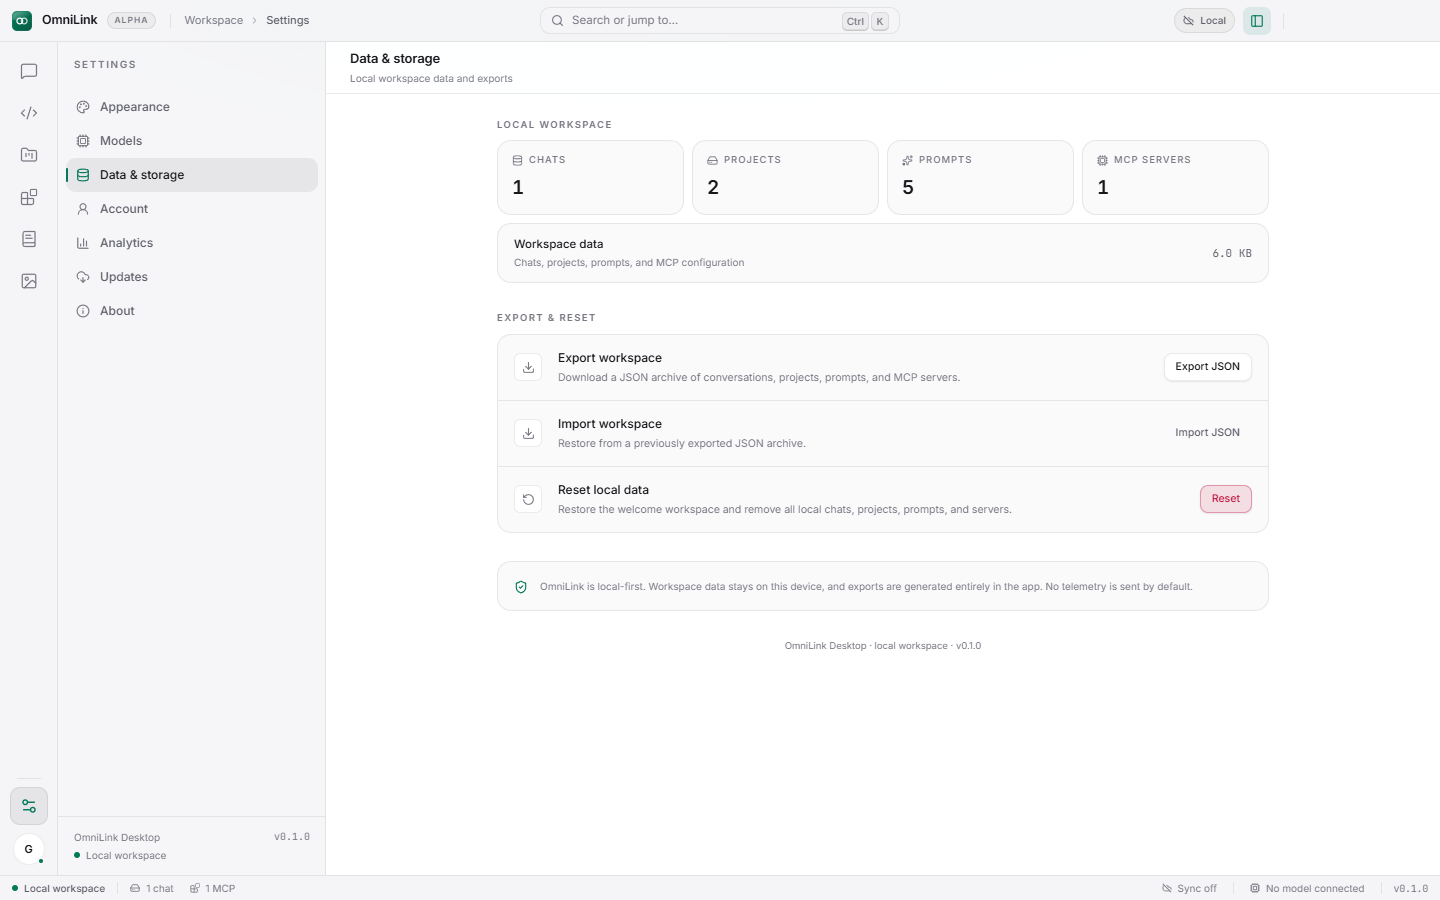
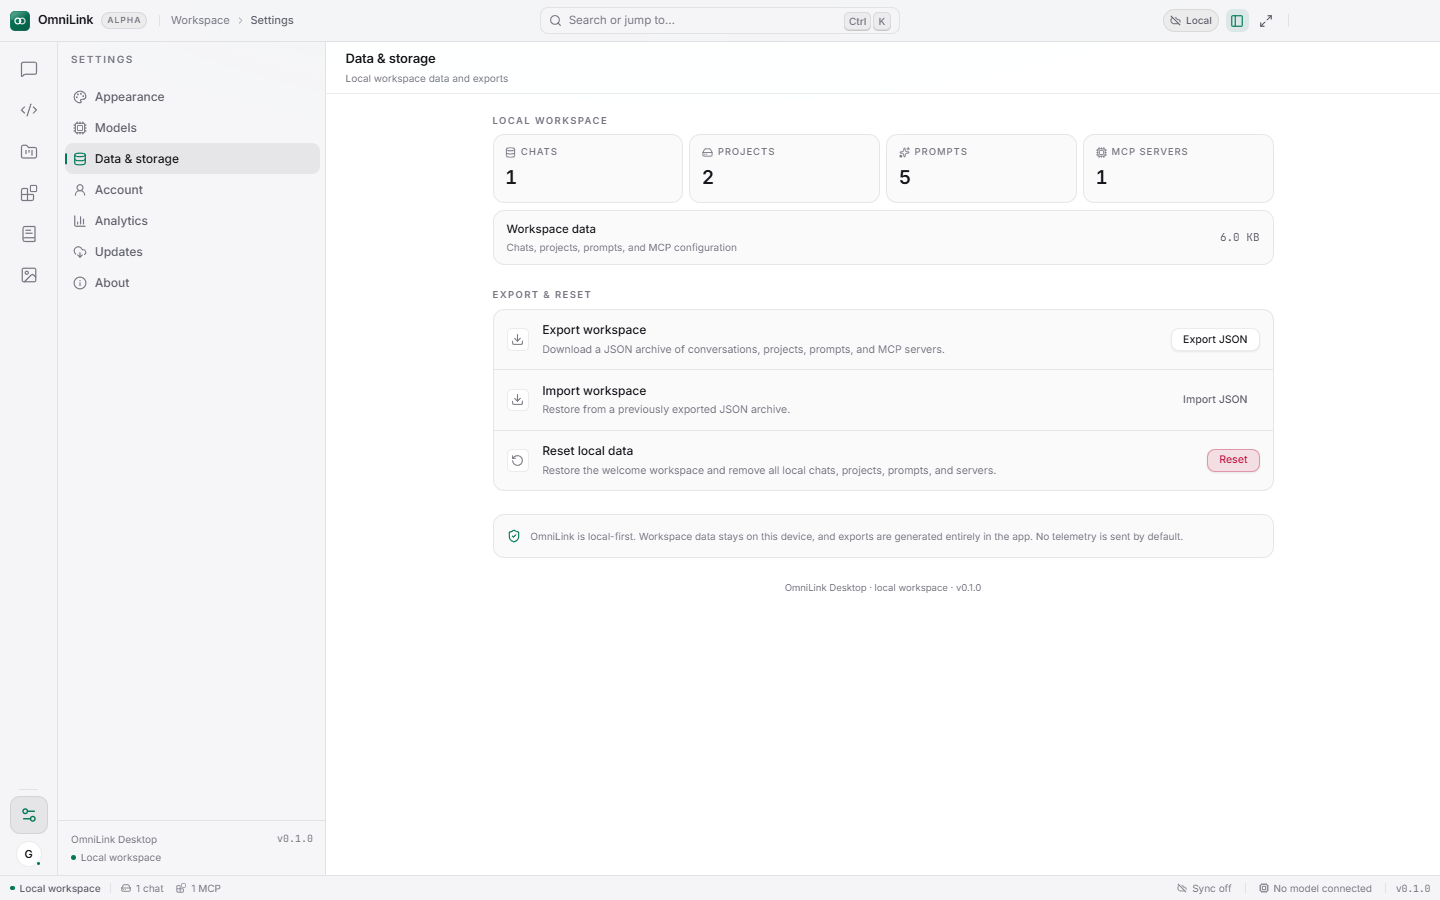
feat(desktop): UX & polish (minimap, breadcrumbs, focus mode, font size, custom CSS)

diff --git a/omnilink-desktop/src/store/app.ts b/omnilink-desktop/src/store/app.ts
@@ -58,7 +58,10 @@ interface AppState {
   theme: ThemeMode;
   accent: Accent;
   reduceMotion: boolean;
+  fontSize: number;
+  customCss: string;
   contextCollapsed: boolean;
+  focusMode: boolean;
   paletteOpen: boolean;
   modal: ModalState;
   activeConversationId: string | null;
@@ -93,7 +96,10 @@ interface AppState {
   setTheme: (theme: ThemeMode) => void;
   setAccent: (accent: Accent) => void;
   setReduceMotion: (reduce: boolean) => void;
+  setFontSize: (size: number) => void;
+  setCustomCss: (css: string) => void;
   toggleContext: () => void;
+  toggleFocusMode: () => void;
   setPaletteOpen: (open: boolean) => void;
   openModal: (modal: ModalState) => void;
   closeModal: () => void;
@@ -187,7 +193,10 @@ export const useApp = create<AppState>()(
       theme: "dark",
       accent: "violet",
       reduceMotion: false,
+      fontSize: 13,
+      customCss: "",
       contextCollapsed: false,
+      focusMode: false,
       paletteOpen: false,
       modal: null,
       activeConversationId: welcomeConversation.id,
@@ -230,8 +239,12 @@ export const useApp = create<AppState>()(
       setTheme: (theme) => set({ theme }),
       setAccent: (accent) => set({ accent }),
       setReduceMotion: (reduceMotion) => set({ reduceMotion }),
+      setFontSize: (fontSize: number) => set({ fontSize }),
+      setCustomCss: (customCss: string) => set({ customCss }),
       toggleContext: () =>
         set((state) => ({ contextCollapsed: !state.contextCollapsed })),
+      toggleFocusMode: () =>
+        set((state) => ({ focusMode: !state.focusMode })),
       setPaletteOpen: (paletteOpen) => set({ paletteOpen }),
       openModal: (modal) => set({ modal }),
       closeModal: () => set({ modal: null }),
@@ -676,7 +689,10 @@ export const useApp = create<AppState>()(
         theme: state.theme,
         accent: state.accent,
         reduceMotion: state.reduceMotion,
+        fontSize: state.fontSize,
+        customCss: state.customCss,
         contextCollapsed: state.contextCollapsed,
+        focusMode: state.focusMode,
         activeConversationId: state.activeConversationId,
         activeProjectId: state.activeProjectId,
         workspaces: state.workspaces,

diff --git a/omnilink-desktop/src/views/SettingsView.tsx b/omnilink-desktop/src/views/SettingsView.tsx
@@ -216,6 +216,10 @@ function AppearanceSettings() {
   const setAccent = useApp((state) => state.setAccent);
   const reduceMotion = useApp((state) => state.reduceMotion);
   const setReduceMotion = useApp((state) => state.setReduceMotion);
+  const fontSize = useApp((state) => state.fontSize);
+  const setFontSize = useApp((state) => state.setFontSize);
+  const customCss = useApp((state) => state.customCss);
+  const setCustomCss = useApp((state) => state.setCustomCss);
   const contextCollapsed = useApp((state) => state.contextCollapsed);
   const toggleContext = useApp((state) => state.toggleContext);
 
@@ -319,6 +323,38 @@ function AppearanceSettings() {
       </section>
 
       <section>
+        <GroupLabel>Typography</GroupLabel>
+        <Group>
+          <Row
+            title="Font size"
+            description="Base text size for the interface."
+          >
+            <input
+              type="range"
+              min={11}
+              max={16}
+              value={fontSize}
+              onChange={(event) => setFontSize(Number(event.target.value))}
+              className="w-32"
+            />
+            <span className="ml-2 font-mono text-[10px] text-subtle">
+              {fontSize}px
+            </span>
+          </Row>
+          <Row
+            title="Custom CSS"
+            description="Inject your own styles."
+          >
+            <textarea
+              value={customCss}
+              onChange={(event) => setCustomCss(event.target.value)}
+              placeholder="/* custom styles */"
+              className="field min-h-[80px] font-mono text-[10.5px]"
+            />
+          </Row>
+        </Group>
+      </section>
+     <section>
         <GroupLabel>Preview</GroupLabel>
         <div className="flex flex-wrap items-center gap-2 rounded-xl border border-line bg-[var(--bg-surface)] p-4">
           <button type="button" className="btn btn-primary">

diff --git a/omnilink-desktop/src/App.tsx b/omnilink-desktop/src/App.tsx
@@ -33,7 +33,10 @@ export default function App() {
   const section = useApp((state) => state.section);
   const accent = useApp((state) => state.accent);
   const reduceMotion = useApp((state) => state.reduceMotion);
+  const fontSize = useApp((state) => state.fontSize);
+  const customCss = useApp((state) => state.customCss);
   const contextCollapsed = useApp((state) => state.contextCollapsed);
+  const focusMode = useApp((state) => state.focusMode);
   const resolvedTheme = useResolvedTheme();
 
   useEffect(() => {
@@ -42,6 +45,20 @@ export default function App() {
     root.dataset.accent = accent;
     root.style.colorScheme = resolvedTheme;
   }, [accent, resolvedTheme]);
+
+  useEffect(() => {
+    const root = document.documentElement;
+    root.style.fontSize = `${fontSize}px`;
+    // Remove old custom style
+    const old = document.getElementById("custom-css");
+    if (old) old.remove();
+    if (customCss.trim()) {
+      const style = document.createElement("style");
+      style.id = "custom-css";
+      style.textContent = customCss;
+      document.head.appendChild(style);
+    }
+  }, [fontSize, customCss]);
 
   useEffect(() => {
     const frame = window.requestAnimationFrame(() => {
@@ -140,9 +157,10 @@ export default function App() {
       <div className="app-window">
         <TitleBar />
         <div className="app-body">
-          <Rail />
+          {!focusMode && <Rail />}
 
-          <motion.aside
+          {!focusMode && (
+            <motion.aside
             initial={false}
             animate={{
               width: contextCollapsed ? 0 : 268,
@@ -156,6 +174,7 @@ export default function App() {
               <ContextPane />
             </div>
           </motion.aside>
+          )}
 
           <main className="app-content">
             <AnimatePresence mode="wait" initial={false}>

diff --git a/omnilink-desktop/src/components/shell/TitleBar.tsx b/omnilink-desktop/src/components/shell/TitleBar.tsx
@@ -1,6 +1,7 @@
 import {
   ChevronRight,
   CloudOff,
+  Maximize2,
   PanelLeft,
   Search,
 } from "lucide-react";
@@ -27,6 +28,8 @@ export function TitleBar() {
   const setPaletteOpen = useApp((state) => state.setPaletteOpen);
   const toggleContext = useApp((state) => state.toggleContext);
   const contextCollapsed = useApp((state) => state.contextCollapsed);
+  const focusMode = useApp((state) => state.focusMode);
+  const toggleFocusMode = useApp((state) => state.toggleFocusMode);
   const openSettings = useApp((state) => state.openSettings);
 
   return (
@@ -93,6 +96,15 @@ export function TitleBar() {
             className="icon-button pointer-events-auto h-7 w-7"
           >
             <PanelLeft size={14} />
+          </button>
+          <button
+            type="button"
+            onClick={toggleFocusMode}
+            title={focusMode ? "Exit focus mode" : "Focus mode"}
+            aria-label={focusMode ? "Exit focus mode" : "Focus mode"}
+            className="icon-button pointer-events-auto h-7 w-7"
+          >
+            <Maximize2 size={14} />
           </button>
           <div className="mx-1 h-4 w-px bg-line" />
           <div className="pointer-events-auto h-full">

diff --git a/omnilink-desktop/src/views/CodingView.tsx b/omnilink-desktop/src/views/CodingView.tsx
@@ -656,9 +656,15 @@ export function CodingView() {
         <div className="flex min-w-0 flex-1 flex-col" data-code-editor>
           <div className="flex h-9 flex-none items-center gap-2 border-b border-line pl-1 pr-2.5">
             {selectedFile ? (
-              <div className="flex h-full min-w-0 items-center gap-1.5 border-r border-line px-2.5 text-[11px] text-fg">
-                <FileGlyph path={selectedFile.path} size={11} />
-                <span className="truncate">{selectedFile.path.split("/").pop()}</span>
+              <div className="flex h-full min-w-0 items-center gap-1 border-r border-line px-2.5 text-[11px] text-fg">
+                {selectedFile.path.split("/").map((part, i, arr) => (
+                  <span key={i} className="flex items-center gap-1">
+                    {i > 0 && <ChevronRight size={10} className="text-subtle" />}
+                    <span className={i === arr.length - 1 ? "text-fg" : "text-muted"}>
+                      {part}
+                    </span>
+                  </span>
+                ))}
                 {dirty && (
                   <span className="ml-1 h-1.5 w-1.5 rounded-full bg-warning" />
                 )}

diff --git a/omnilink-desktop/src/components/editor/MonacoEditor.tsx b/omnilink-desktop/src/components/editor/MonacoEditor.tsx
@@ -159,7 +159,7 @@ export default function MonacoEditor({
         fontSize: 12.5,
         lineHeight: 21,
         fontLigatures: true,
-        minimap: { enabled: false },
+        minimap: { enabled: true, scale: 1, showSlider: "mouseover" },
         scrollBeyondLastLine: false,
         smoothScrolling: true,
         cursorBlinking: "smooth",
